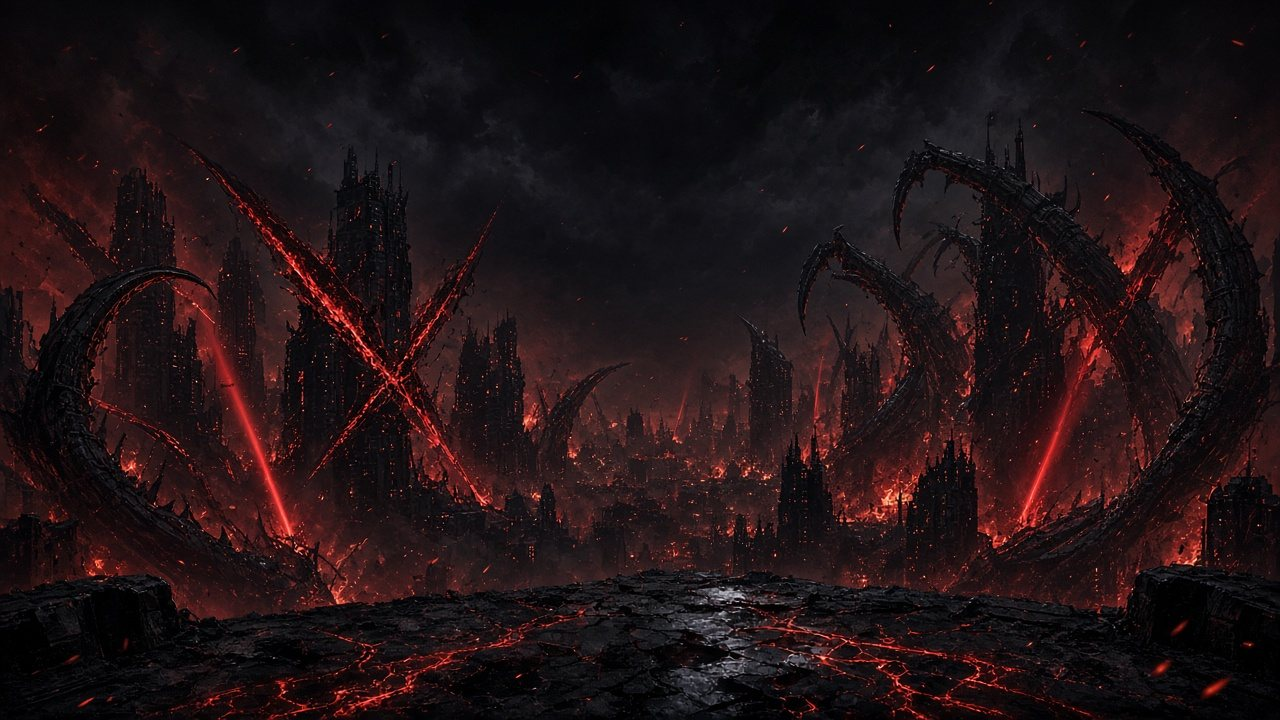
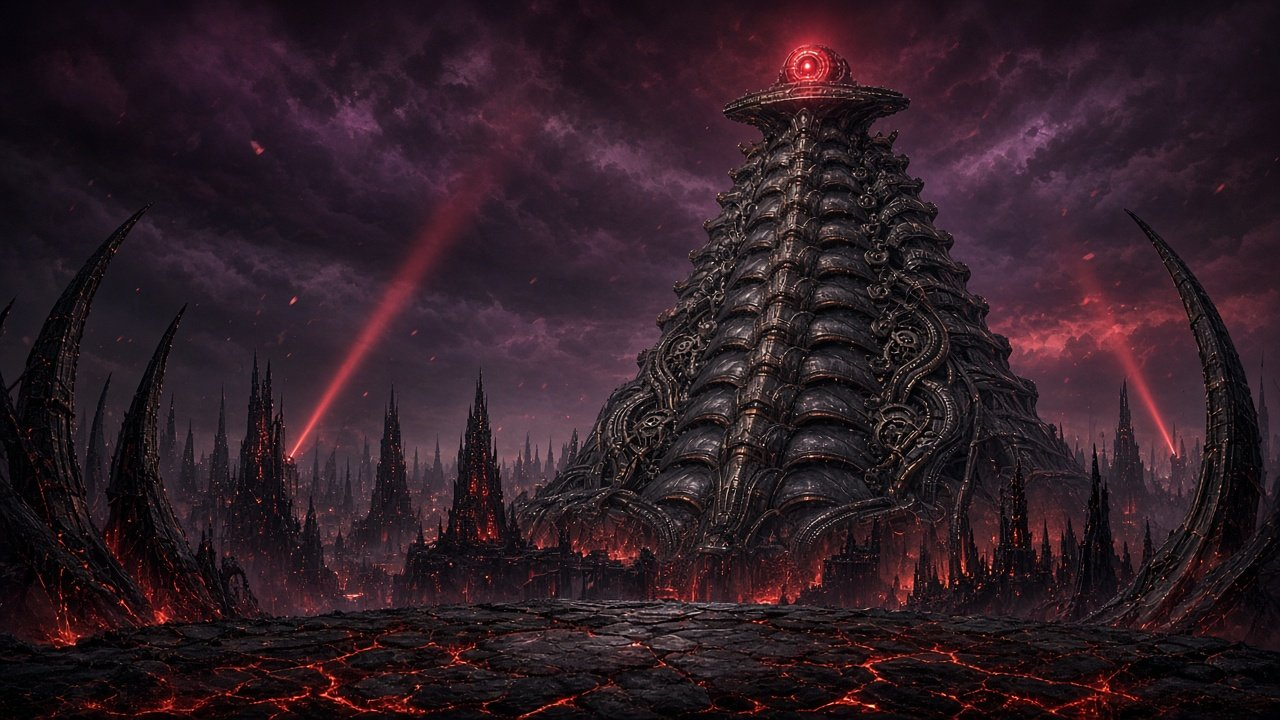
Title: rebuild the OpenClaw tower so Shredclaw rises behind it
- plate.jpg: the new biomechanical stepped-pyramid tower (1280x720, q85)
- re-traced TOWER_POLY / SKYLINE_POLY (GrabCut) so the tower, platform, lens
  dome and foreground draw in front of the Overlord
- Overlord retuned (cx 806, coreY 104, w 760): head and horns above the dome,
  platform across his chest, claws in the sky; final loom grows and settles
  behind the logo
- camera may tilt 120 plate px above the plate (mirrored sky strip) so his
  head clears the narration in the overlord beat
- apex lens beacon: slow blink plus a hard flash on the roar ('lighter')
- searchlights and smoke moved to the new tower top; rooftop vent/antenna
  silhouettes become a basalt shard and bone spike for the lava ground
- evidence/title-tower: before/after Playwright screenshots

diff --git a/title.js b/title.js
@@ -14,7 +14,7 @@ export const BEAT_FADE = 0.5; // narration crossfade between beats
 export const BEATS = [
   { id: 'city', lineAt: 1.4, min: 7.0, cam: { z: 1.42, x: 0.63, y: 0.30 }, camDur: 7.0,
     line: 'Ten thousand forgotten claws woke up hungry.' },
-  { id: 'overlord', lineAt: 0.6, min: 7.0, cam: { z: 1.22, x: 0.63, y: 0.30 }, camDur: 2.6, rise: [0.3, 2.8], roar: 2.4,
+  { id: 'overlord', lineAt: 0.6, min: 7.0, cam: { z: 1.22, x: 0.63, y: 0.26 }, camDur: 2.6, rise: [0.3, 2.8], roar: 2.4,
     line: 'One rogue lobster, Shredclaw, made them his army.' },
   { id: 'nous', lineAt: 0.5, min: 7.0, cam: { z: 1.06, x: 0.44, y: 0.56 }, camDur: 1.6,
     line: 'Three rebels from Nous had the cure: claw migrate.',
@@ -36,6 +36,21 @@ export const CAST = {
   // baba_booey (t_9ec48322f6de4bf7): Don Piedro Savastano, Hermes' #1 fanboy, drops in last (cutout from tools/make_don_art.py)
   don_piedro: { name: 'DON PIEDRO', sub: 'BIG SPOON', color: '#c98a4b', x: 662, h: 178, move: 'drop' }
 };
+// ---- the OpenClaw tower in plate.jpg (1280x720 plate space), measured from the art:
+// a biomechanical stepped pyramid with a flat top platform (y 86..120) and a round red
+// lens beacon at the apex. TOWER_POLY / SKYLINE_POLY trace the tower and the foreground
+// (spires, bone horns, lava ground); both are drawn again in front of the Overlord, so he
+// only shows in the sky. Traced with a GrabCut segmentation, simplified to ~1.5 px.
+const TOWER_POLY = [794, 48, 788, 53, 788, 56, 785, 57, 784, 64, 779, 68, 778, 79, 764, 91, 739, 94, 739, 97, 731, 101, 729, 106, 723, 111, 723, 115, 726, 118, 735, 122, 752, 125, 757, 128, 757, 131, 749, 138, 749, 143, 742, 149, 742, 154, 747, 159, 741, 168, 730, 175, 733, 185, 728, 191, 720, 191, 716, 194, 715, 201, 720, 206, 722, 212, 710, 220, 705, 220, 703, 223, 703, 229, 708, 236, 708, 242, 703, 245, 702, 252, 699, 255, 690, 257, 690, 262, 694, 268, 691, 274, 682, 281, 674, 282, 673, 292, 680, 300, 672, 310, 664, 309, 659, 314, 658, 319, 655, 320, 655, 325, 661, 332, 658, 341, 650, 348, 637, 353, 636, 365, 639, 369, 635, 377, 623, 383, 621, 387, 615, 387, 610, 393, 606, 405, 601, 406, 597, 413, 593, 426, 583, 445, 580, 446, 578, 450, 577, 441, 573, 441, 570, 444, 562, 444, 561, 454, 556, 462, 555, 476, 551, 481, 560, 482, 560, 719, 1060, 719, 1060, 482, 1080, 481, 1080, 464, 1064, 440, 1063, 432, 1059, 432, 1058, 437, 1055, 432, 1057, 431, 1056, 425, 1044, 422, 1037, 415, 1035, 405, 1039, 393, 1035, 383, 1029, 378, 1016, 375, 1010, 369, 1008, 359, 1011, 355, 1012, 347, 1009, 338, 1000, 333, 994, 333, 988, 328, 985, 318, 989, 313, 989, 304, 984, 298, 981, 298, 978, 294, 972, 294, 966, 288, 966, 284, 971, 276, 971, 271, 966, 264, 963, 264, 961, 261, 955, 261, 951, 257, 949, 251, 954, 244, 953, 235, 944, 229, 937, 229, 933, 224, 938, 214, 938, 208, 935, 203, 931, 201, 926, 202, 922, 199, 920, 193, 924, 187, 924, 182, 921, 181, 921, 178, 915, 177, 913, 179, 905, 171, 909, 164, 909, 157, 905, 153, 895, 155, 891, 150, 892, 144, 898, 136, 898, 129, 894, 129, 886, 137, 879, 135, 871, 136, 868, 133, 872, 124, 878, 118, 884, 118, 908, 109, 910, 99, 904, 97, 902, 92, 880, 87, 858, 85, 857, 80, 854, 80, 850, 75, 851, 68, 845, 58, 839, 58, 837, 56, 823, 58, 819, 56, 816, 51, 807, 50, 804, 47];
+const SKYLINE_POLY = [1279, 444, 1265, 442, 1259, 433, 1257, 411, 1245, 371, 1215, 304, 1193, 272, 1165, 240, 1154, 239, 1153, 247, 1177, 289, 1188, 318, 1189, 328, 1193, 331, 1204, 373, 1203, 384, 1206, 395, 1205, 443, 1198, 475, 1200, 483, 1192, 509, 1175, 529, 1170, 529, 1164, 543, 1157, 550, 1151, 546, 1148, 519, 1138, 512, 1125, 513, 1123, 510, 1114, 510, 1109, 507, 1105, 481, 1101, 480, 1096, 446, 1092, 446, 1091, 471, 1087, 472, 1074, 457, 1071, 448, 1064, 440, 1063, 432, 1061, 432, 1060, 470, 560, 470, 558, 457, 555, 476, 543, 487, 536, 485, 535, 492, 530, 498, 527, 490, 521, 490, 505, 508, 499, 476, 500, 467, 497, 466, 497, 449, 493, 449, 493, 454, 491, 454, 491, 429, 489, 428, 487, 404, 483, 402, 482, 381, 478, 381, 475, 386, 473, 410, 468, 411, 464, 446, 457, 450, 458, 475, 456, 481, 453, 482, 452, 506, 447, 509, 448, 518, 445, 531, 442, 530, 442, 525, 438, 525, 436, 540, 425, 538, 422, 533, 422, 520, 414, 515, 409, 496, 410, 489, 407, 488, 406, 464, 402, 462, 398, 413, 384, 415, 380, 456, 376, 463, 375, 486, 371, 489, 370, 508, 363, 519, 343, 520, 339, 524, 334, 542, 322, 544, 310, 494, 303, 487, 298, 486, 297, 463, 294, 462, 292, 455, 286, 454, 283, 418, 280, 415, 274, 415, 272, 419, 271, 386, 251, 383, 251, 394, 247, 404, 246, 434, 242, 440, 214, 435, 212, 452, 207, 457, 200, 457, 198, 462, 179, 455, 159, 455, 157, 453, 158, 396, 163, 383, 165, 363, 172, 347, 173, 336, 179, 325, 179, 310, 135, 267, 115, 252, 111, 244, 104, 244, 102, 252, 48, 321, 18, 407, 0, 429, 0, 719, 1279, 719];
+const LENS = { x: 806, y: 66 };         // the apex beacon (centre of the red lens)
+const TOWER_TOP = { x: 806, y: 136 };   // under the platform rim: where the smoke rolls
+// Shredclaw stands behind the tower: core (sprite y 0.267) hidden behind the platform,
+// head and horns above the lens dome, claws spread into the sky either side.
+const OVERLORD = { cx: 806, coreY: 104, w: 760 };
+// The apex is only ~44 px under the plate's top edge, so the camera may tilt this many
+// plate px above the plate; that strip is filled with a soft mirror of the plate's own sky.
+const SKY_HEADROOM = 120;
 const ENTER_DUR = { slideL: 0.55, slideR: 0.55, drop: 0.5, leap: 0.62 };
 const GROUND = 494; // stage y of the characters' feet at the default camera
 const typeTime = line => line.length / TYPE_RATE;
@@ -151,6 +166,16 @@ export function createTitle(audio) {
   }
 
   // ---------- drawing
+  let cap = null;
+  // the sky strip above the plate: its top 40 rows mirrored, stretched, blurred, darkened upward
+  function skyCap(P) {
+    if (cap || typeof document === 'undefined') return cap;
+    const c = document.createElement('canvas'); c.width = P.width; c.height = SKY_HEADROOM; const x = c.getContext('2d');
+    x.filter = 'blur(3px)'; x.save(); x.scale(1, -1); x.drawImage(P, 0, 0, P.width, 40, -4, -SKY_HEADROOM - 4, P.width + 8, SKY_HEADROOM + 8); x.restore(); x.filter = 'none';
+    const g = x.createLinearGradient(0, 0, 0, SKY_HEADROOM); g.addColorStop(0, 'rgba(6,2,12,0.8)'); g.addColorStop(1, 'rgba(6,2,12,0)');
+    x.fillStyle = g; x.fillRect(0, 0, c.width, SKY_HEADROOM);
+    return (cap = c);
+  }
   const sil = {};
   function silhouette(name, color) {
     const key = name + color; if (sil[key]) return sil[key];
@@ -190,18 +215,20 @@ export function createTitle(audio) {
     // slide the plate off an edge and show black; the clamp keeps that margin.
     const OS = 8, s0 = Math.max((W + 2 * OS) / pw, (H + 2 * OS) / ph), s = s0 * cam.z, dw = pw * s, dh = ph * s;
     let ox = W / 2 - cam.x * dw, oy = H / 2 - cam.y * dh;
-    ox = Math.min(-OS, Math.max(W - dw + OS, ox)); oy = Math.min(-OS, Math.max(H - dh + OS, oy));
+    // vertically the camera may also tilt up into the SKY_HEADROOM strip above the plate
+    ox = Math.min(-OS, Math.max(W - dw + OS, ox)); oy = Math.min(SKY_HEADROOM * s - OS, Math.max(H - dh + OS, oy));
     const PT = (px, py) => [ox + px * s, oy + py * s];
-    if (ok(P)) ctx.drawImage(P, ox, oy, dw, dh);
+    if (ok(P)) { ctx.drawImage(P, ox, oy, dw, dh); if (oy > -OS && skyCap(P)) ctx.drawImage(cap, ox, oy - SKY_HEADROOM * s + 0.5, dw, SKY_HEADROOM * s); }
     // ---- Overlord, behind the tower (rises in beat 2, looms in beat 5)
-    const O = img.overlord;
     const oi = BEATS.findIndex(x => x.id === 'overlord');
+    const O = img.overlord;
     if (ok(O) && st.b >= oi) {
       const rb = BEATS[oi];
       const rk = st.b > oi ? 1 : 1 - Math.pow(1 - Math.min(1, Math.max(0, (st.bt - rb.rise[0]) / (rb.rise[1] - rb.rise[0]))), 3);
       const loom = st.b === BEATS.length - 1 ? ease(st.bt / 2.0) : 0;
-      const ow = 900 * (1 + 0.1 * loom) * (1 + 0.008 * Math.sin(st.t * 1.6)), oh = ow * O.height / O.width;
-      const cx = 806, coreY = 192 - 30 * loom + 620 * (1 - rk);
+      // final loom: he grows and settles lower, face behind the logo, horns and claws around it
+      const ow = OVERLORD.w * (1 + 0.12 * loom) * (1 + 0.008 * Math.sin(st.t * 1.6)), oh = ow * O.height / O.width;
+      const cx = OVERLORD.cx, coreY = OVERLORD.coreY + 55 * loom + 620 * (1 - rk);
       // the Overlord sits a little deeper than the tower: a small parallax lag
       const lag = (cam.x - 0.5) * 40;
       const [sx, sy] = PT(cx - ow / 2 + lag, coreY - 0.267 * oh);
@@ -222,22 +249,33 @@ export function createTitle(audio) {
       // the tower and skyline in front of him: the plate again, clipped
       if (ok(P)) {
         ctx.save(); ctx.beginPath();
-        const poly = (pts) => { pts.forEach(([x, y], i) => { const [X, Y] = PT(x, y); if (i) ctx.lineTo(X, Y); else ctx.moveTo(X, Y); }); ctx.closePath(); };
-        // tower body only: he rises behind it and in front of the claw statue on top
-        poly([[540, 480], [600, 400], [640, 330], [668, 268], [680, 234], [944, 234], [975, 300], [1020, 380], [1080, 480], [1080, 720], [540, 720]]);
-        poly([[0, 720], [0, 250], [360, 240], [398, 300], [440, 392], [520, 392], [560, 402], [1080, 402], [1108, 282], [1160, 262], [1200, 300], [1280, 250], [1280, 720]]);
+        const poly = (f) => { for (let i = 0; i < f.length; i += 2) { const [X, Y] = PT(f[i], f[i + 1]); if (i) ctx.lineTo(X, Y); else ctx.moveTo(X, Y); } ctx.closePath(); };
+        // the whole tower (body, platform, lens dome) and the foreground skyline
+        poly(TOWER_POLY); poly(SKYLINE_POLY);
         ctx.clip(); ctx.drawImage(P, ox, oy, dw, dh); ctx.restore();
-        // purple smoke rolling off the tower top hides where he meets the tower
-        const [fx0, fy0] = PT(812 + Math.sin(st.t * 0.7) * 6, 238);
-        ctx.save(); ctx.translate(fx0, fy0); ctx.scale(1, 0.2);
-        const R = 240 * s, fg = ctx.createRadialGradient(0, 0, 0, 0, 0, R);
-        fg.addColorStop(0, 'rgba(22,8,40,0.97)'); fg.addColorStop(0.55, 'rgba(30,10,52,0.8)'); fg.addColorStop(1, 'rgba(30,10,52,0)');
+        // purple smoke rolling off the platform rim hides where he meets the tower
+        const [fx0, fy0] = PT(TOWER_TOP.x + Math.sin(st.t * 0.7) * 6, TOWER_TOP.y);
+        ctx.save(); ctx.translate(fx0, fy0); ctx.scale(1, 0.14);
+        const R = 165 * s, fg = ctx.createRadialGradient(0, 0, 0, 0, 0, R);
+        fg.addColorStop(0, 'rgba(22,8,40,0.85)'); fg.addColorStop(0.55, 'rgba(30,10,52,0.6)'); fg.addColorStop(1, 'rgba(30,10,52,0)');
         ctx.fillStyle = fg; ctx.beginPath(); ctx.arc(0, 0, R, 0, 7); ctx.fill(); ctx.restore();
       }
     }
-    // ---- searchlights from the tower (with the plate)
+    // ---- apex lens beacon: a slow blink, and a hard flash on the roar
     ctx.globalCompositeOperation = 'lighter';
-    for (const [u, v, phs, sp, col] of [[690, 250, 0, 0.5, '255,40,80'], [925, 245, 2.2, 0.42, '255,60,140'], [760, 300, 4.1, 0.33, '200,40,255']]) {
+    if (ok(P)) {
+      const ob = BEATS[oi], roarK = st.b === oi && st.bt >= ob.roar ? Math.max(0, 1 - (st.bt - ob.roar) / 0.7) : 0;
+      const pulse = Math.pow(0.5 + 0.5 * Math.sin(st.t * 2.2 - 1.2), 3); // ~2.9 s, mostly dim with a bright peak
+      const a = Math.min(1, 0.22 + 0.7 * pulse + 0.9 * roarK), [lx, ly] = PT(LENS.x, LENS.y);
+      const R = (24 + 14 * pulse + 70 * roarK) * s, g = ctx.createRadialGradient(lx, ly, 0, lx, ly, R);
+      g.addColorStop(0, `rgba(255,120,100,${a})`); g.addColorStop(0.3, `rgba(255,30,40,${a * 0.6})`); g.addColorStop(1, 'rgba(255,0,0,0)');
+      ctx.fillStyle = g; ctx.beginPath(); ctx.arc(lx, ly, R, 0, 7); ctx.fill();
+      const r0 = (5 + 2 * pulse + 6 * roarK) * s, h = ctx.createRadialGradient(lx, ly, 0, lx, ly, r0);
+      h.addColorStop(0, `rgba(255,230,210,${Math.min(1, 0.3 + 0.7 * pulse + roarK)})`); h.addColorStop(1, 'rgba(255,60,60,0)');
+      ctx.fillStyle = h; ctx.beginPath(); ctx.arc(lx, ly, r0, 0, 7); ctx.fill();
+    }
+    // ---- searchlights from the tower top (with the plate): platform rim ends + the lens dome
+    for (const [u, v, phs, sp, col] of [[730, 104, 0, 0.5, '255,40,80'], [884, 104, 2.2, 0.42, '255,60,140'], [806, 48, 4.1, 0.33, '200,40,255']]) {
       const [bx, by] = PT(u, v); const ang = -Math.PI / 2 + Math.sin(st.t * sp + phs) * 0.8, len = H * 1.4, half = 0.08;
       const g = ctx.createLinearGradient(bx, by, bx + Math.cos(ang) * len, by + Math.sin(ang) * len);
       g.addColorStop(0, `rgba(${col},0.32)`); g.addColorStop(0.5, `rgba(${col},0.09)`); g.addColorStop(1, `rgba(${col},0)`);
@@ -280,12 +318,12 @@ export function createTitle(audio) {
       // name cards alternate height so neighbours' cards never overlap
       if (a.land >= 0 && a.land < 2.1) nameCard(ctx, X, Y - hgt - 10 * cr - (Object.keys(CAST).indexOf(a.name) % 2) * 40, a.c, a.land, W);
     }
-    // ---- near rain + rooftop silhouettes (fastest layer)
+    // ---- near rain + foreground silhouettes on the lava ground (fastest layer)
     drawRain(ctx, W, H, true, shiftX * 1.7);
     ctx.fillStyle = '#05030b';
     const fx = shiftX * 1.7, fy = Math.max(0, shiftY * 0.6);
-    { const vx = -150 + fx; ctx.beginPath(); ctx.moveTo(vx, H + 10); ctx.lineTo(vx, H - 64 + fy); ctx.lineTo(vx + 64, H - 64 + fy); ctx.lineTo(vx + 64, H - 44 + fy); ctx.lineTo(vx + 78, H - 44 + fy); ctx.lineTo(vx + 78, H + 10); ctx.fill(); } // vent stack at the edge
-    const ax = W + 110 + fx; ctx.fillRect(ax, H - 210 + fy, 5, 220); ctx.fillRect(ax - 18, H - 190 + fy, 40, 3); ctx.fillRect(ax - 12, H - 160 + fy, 28, 3); // antenna, passes the right edge as the camera pans
+    { const vx = -150 + fx; ctx.beginPath(); ctx.moveTo(vx, H + 10); ctx.lineTo(vx, H - 40 + fy); ctx.lineTo(vx + 30, H - 72 + fy); ctx.lineTo(vx + 52, H - 54 + fy); ctx.lineTo(vx + 80, H - 30 + fy); ctx.lineTo(vx + 96, H + 10); ctx.fill(); } // basalt shard at the edge
+    { const ax = W + 110 + fx; ctx.beginPath(); ctx.moveTo(ax - 4, H + 10); ctx.quadraticCurveTo(ax + 2, H - 120 + fy, ax - 38, H - 214 + fy); ctx.quadraticCurveTo(ax + 22, H - 124 + fy, ax + 24, H + 10); ctx.fill(); } // bone spike (like the plate's horns), passes the right edge as the camera pans
     // vignette + lower shade for the narration
     const vg = ctx.createRadialGradient(W / 2, H / 2, H * 0.25, W / 2, H / 2, H * 0.85);
     vg.addColorStop(0, 'rgba(0,0,0,0)'); vg.addColorStop(1, 'rgba(0,0,0,0.55)'); ctx.fillStyle = vg; ctx.fillRect(-20, -20, W + 40, H + 40);

diff --git a/evidence/title-tower/README.md b/evidence/title-tower/README.md
@@ -1,0 +1,13 @@
+# Title: Shredclaw rises behind the OpenClaw tower
+
+Real Playwright screenshots of the title (index.html served with `python3 -m http.server`,
+canvas 740x510 scaled to 1280x884), captured at each beat.
+
+- `before-*`: origin/main, where plate.jpg had no tower and the old clip polygons masked nothing.
+- `after-1-city-beacon`: beat 1, the new biomech pyramid with the blinking apex lens.
+- `after-2a-rise`: beat 2, his horns and claws come up behind the tower body.
+- `after-2c-roar`: the roar, with eye flare and the beacon's hard flash.
+- `after-2d-overlord`: settled: head and horns above the lens dome, platform across his chest, claws around it.
+- `after-4-turtles`: the lineup beat, with him looming above the frame.
+- `after-5b-final-loom`: the final loom behind the logo.
+- `after-beacon-blink-strip`: the lens across ~3 s of beat 1 (0.32 s per frame).
